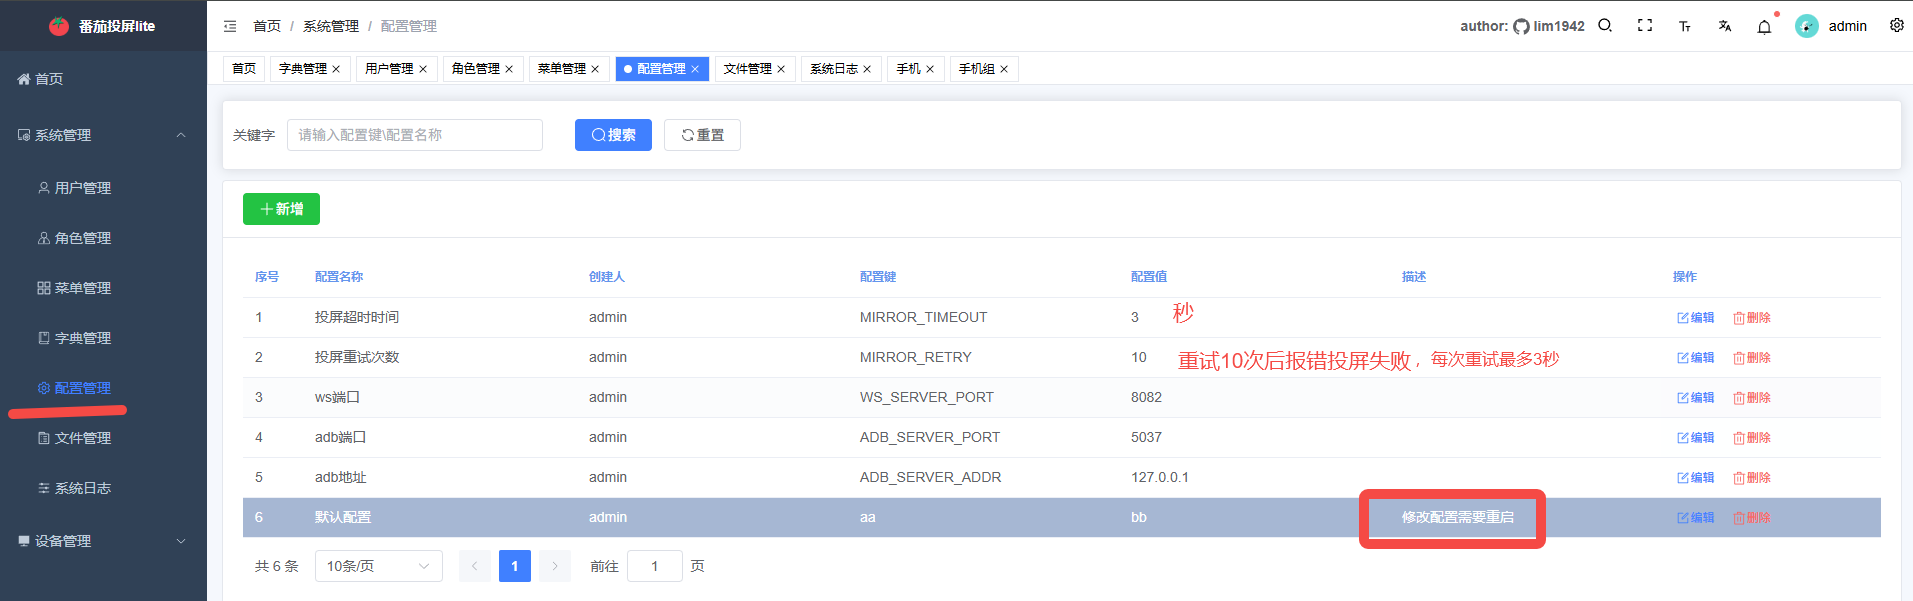
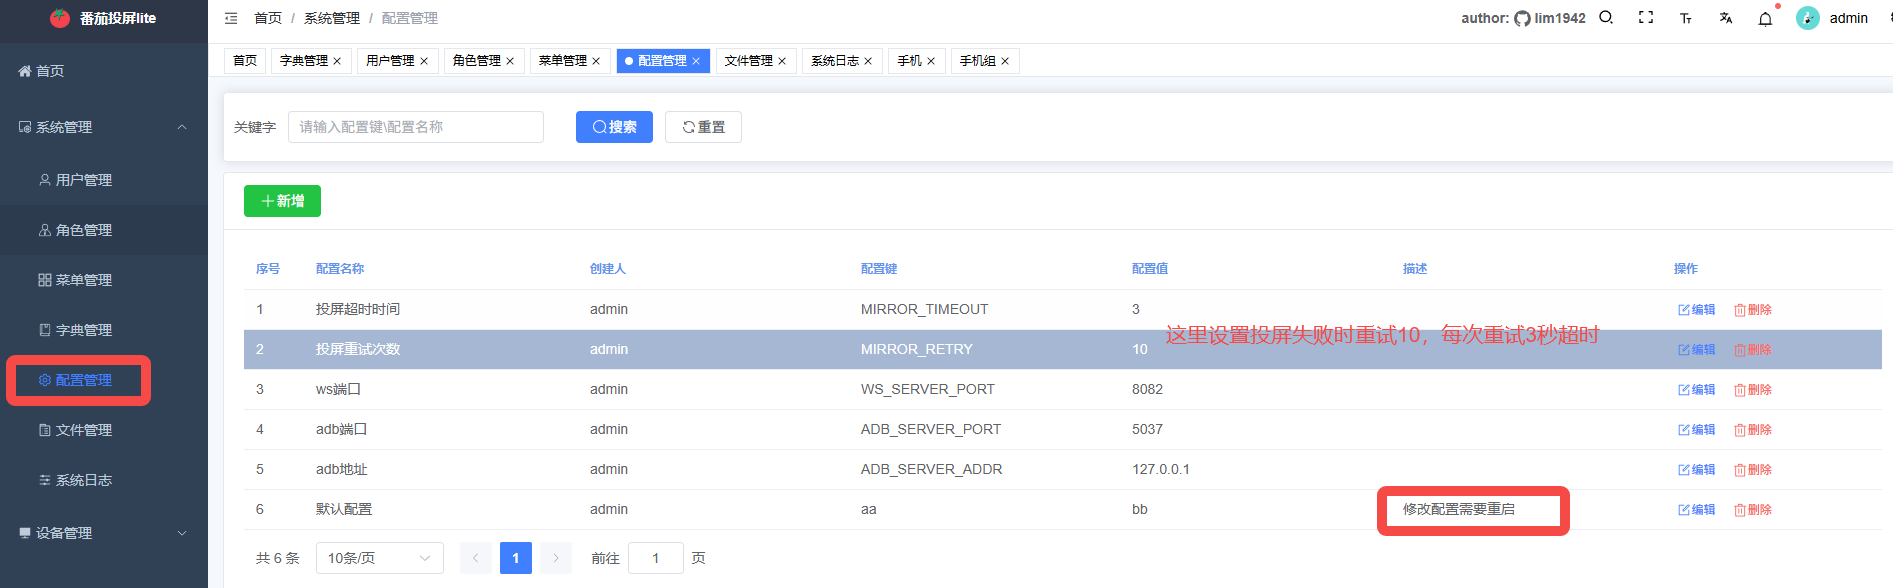
update

diff --git a/readme.md b/readme.md
@@ -77,6 +77,6 @@
 ![other_env.png](asset%2Fother_env.png)
 - ***TOMATO_SERVER_PORT*** 设置http服务端口，默认8888  
 ### 2.配置表
-> 修改后需要重启生效
+> ***系统管理 >配置管理***, 设置完重启软件
 > 
 ![other_config.png](asset%2Fother_config.png)
